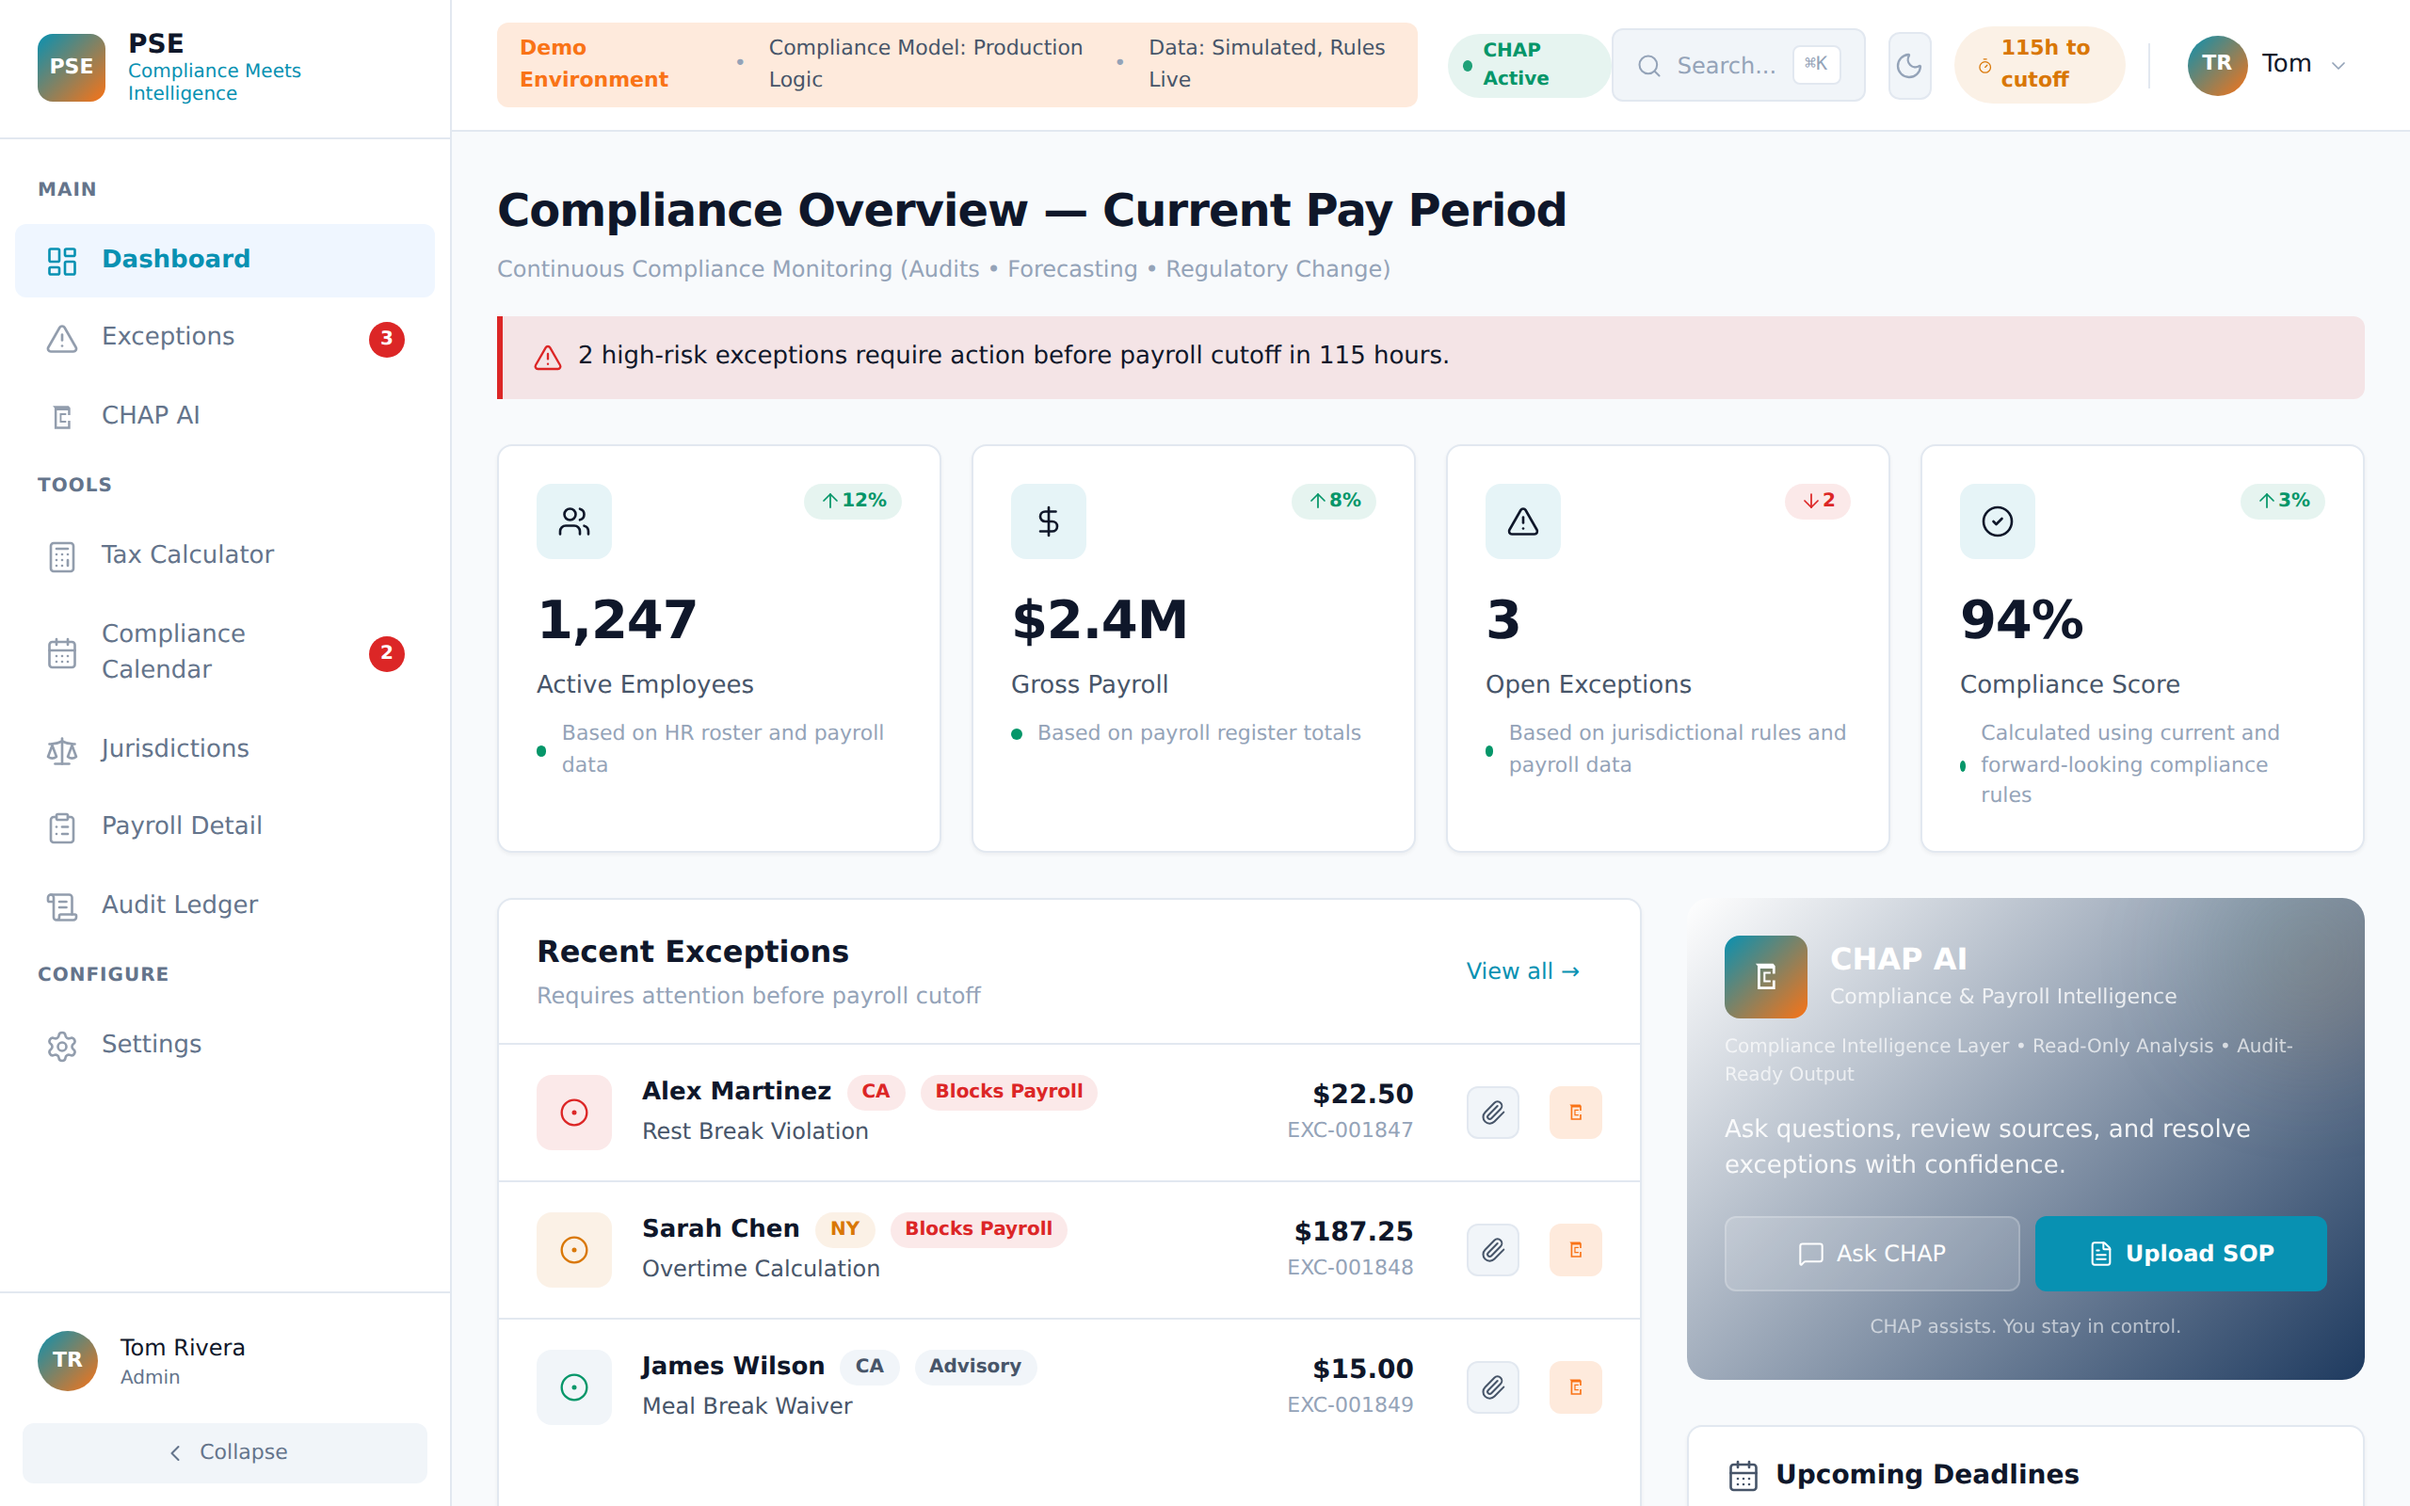
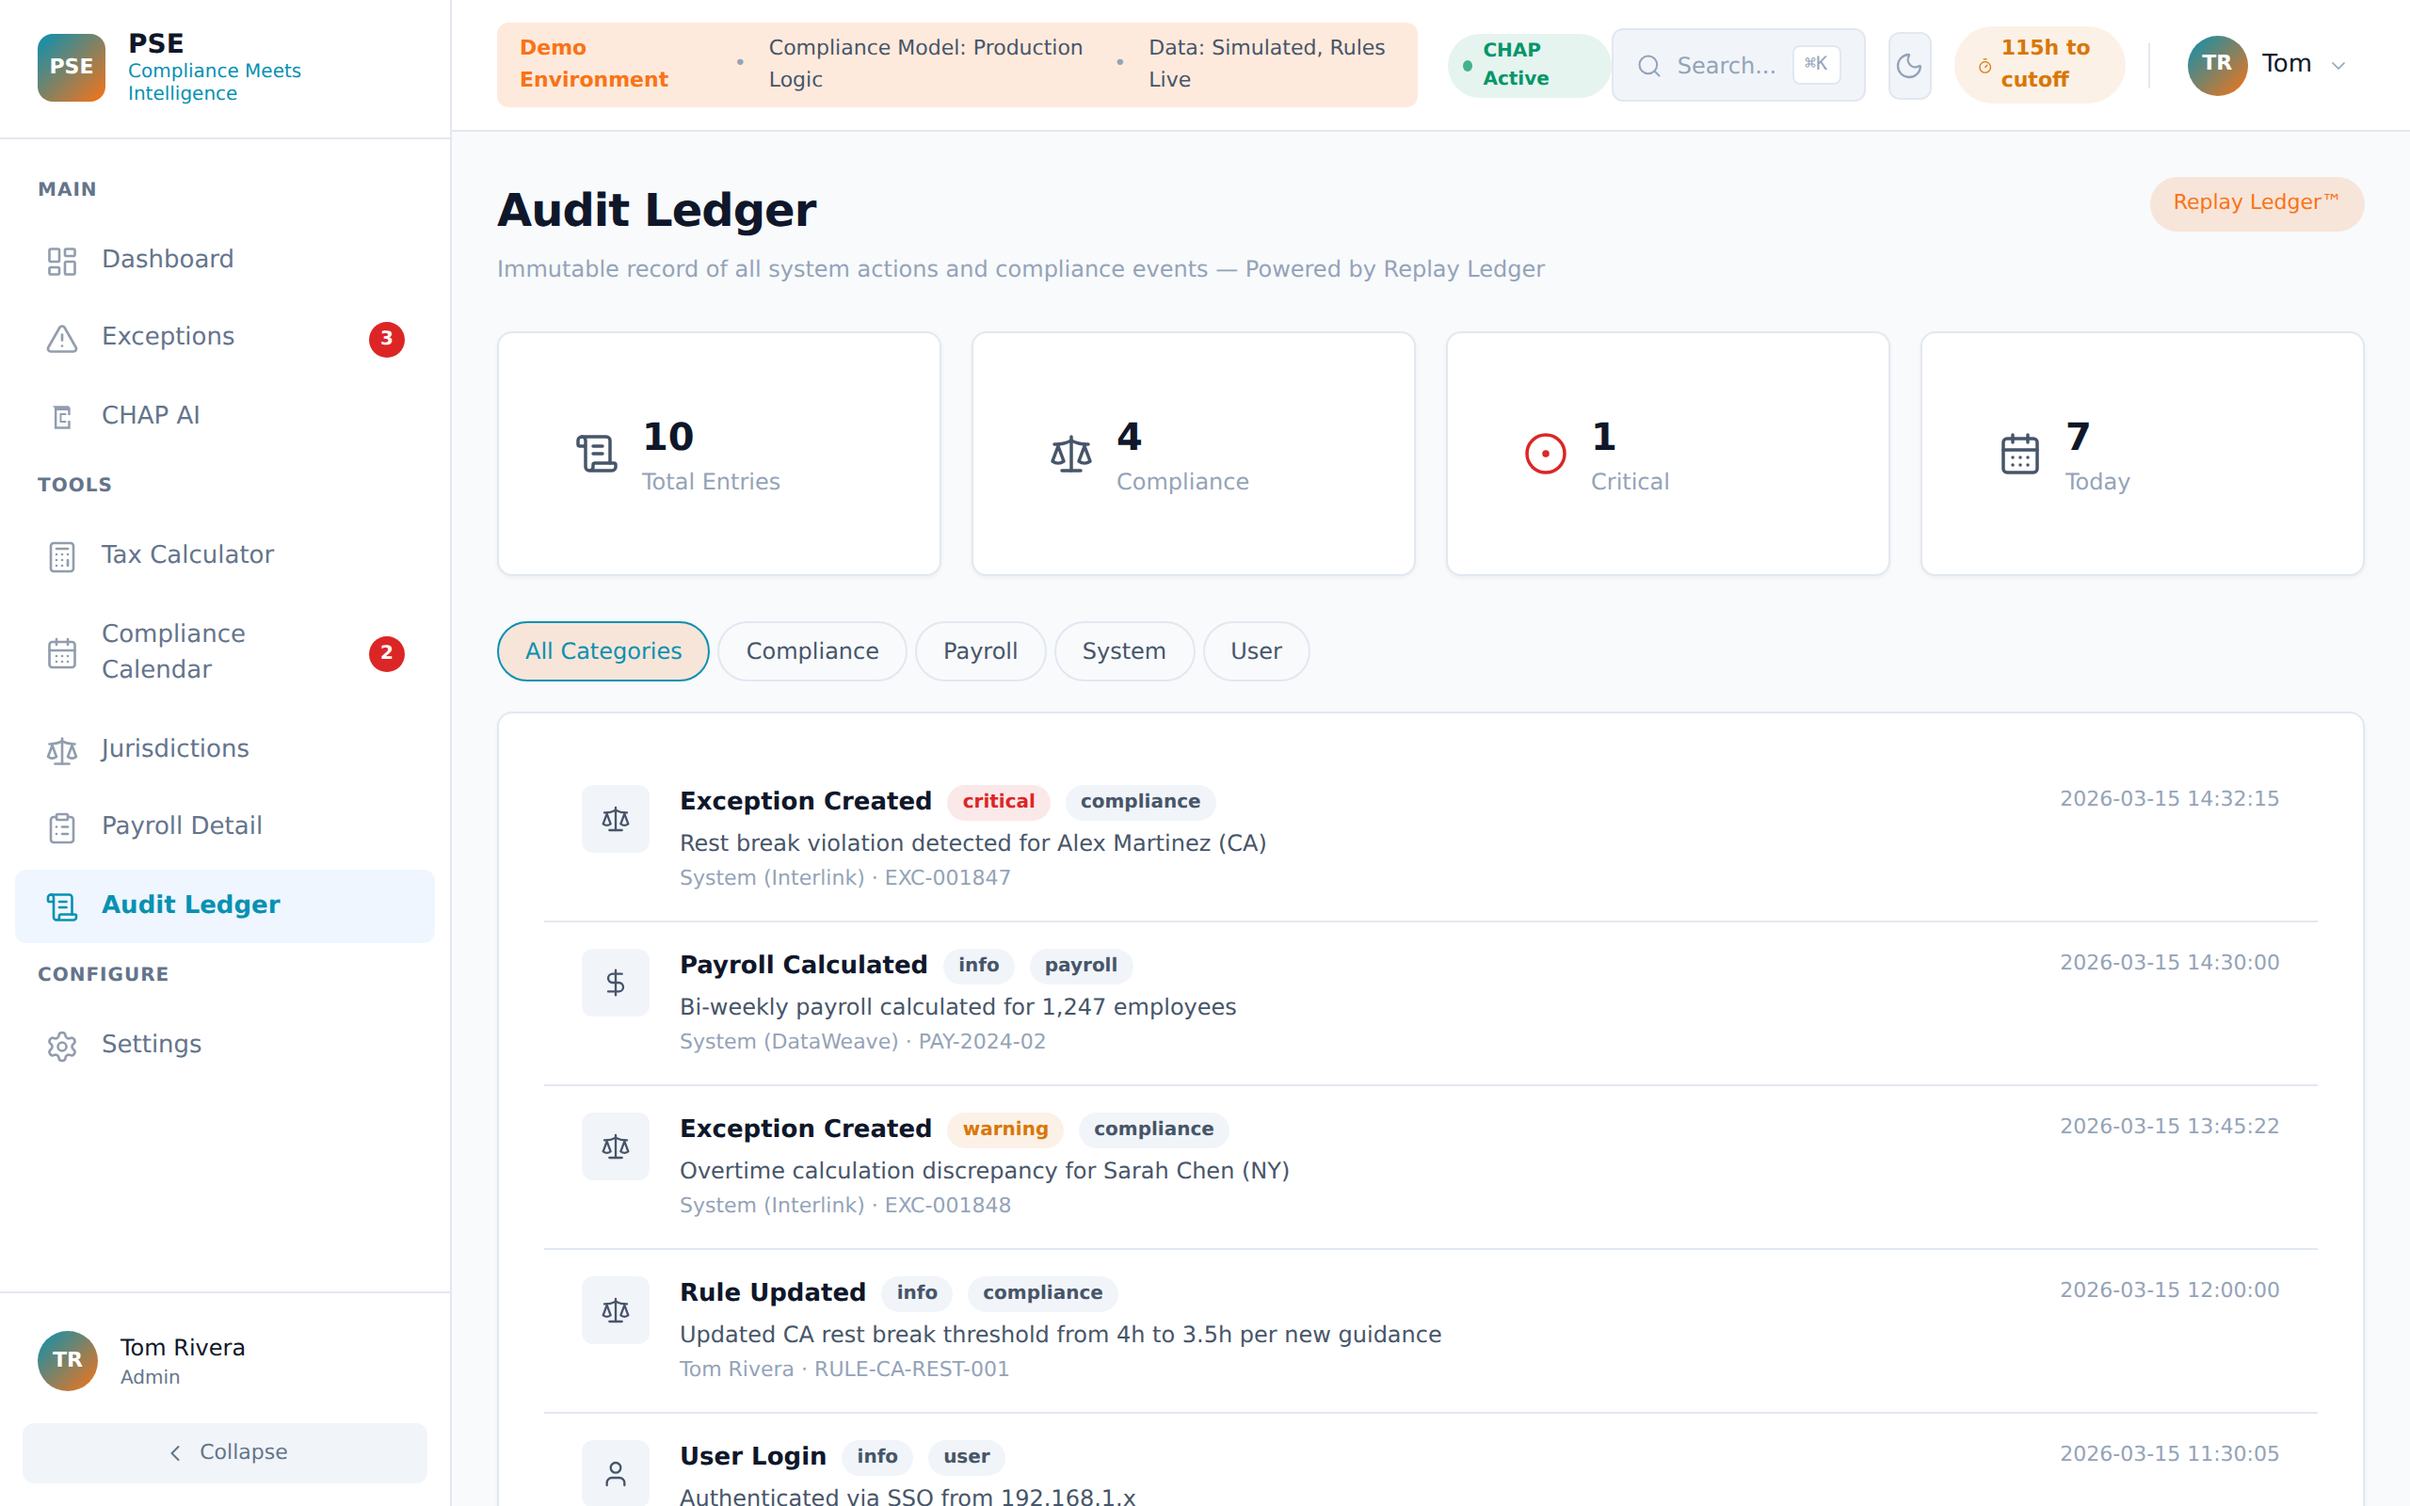
fix: capture distinct screenshots via SPA sidebar navigation
Script now clicks Dashboard, Exceptions, Payroll Detail, Audit Ledger
buttons instead of hitting separate routes (SPA serves same shell on all paths)

diff --git a/scripts/capture-demo-screenshots.js b/scripts/capture-demo-screenshots.js
@@ -5,49 +5,33 @@ const DEMO_URL = 'https://demo.payrollsynergyexperts.com';
 const OUT_DIR = path.join(__dirname, '..', 'public', 'screenshots');
 
 const screenshots = [
-  {
-    name: 'dashboard-overview',
-    path: '/',
-    waitFor: 3000,
-    viewport: { width: 1280, height: 800 },
-  },
-  {
-    name: 'compliance-scan',
-    path: '/compliance',
-    waitFor: 3000,
-    viewport: { width: 1280, height: 800 },
-  },
-  {
-    name: 'payroll-run',
-    path: '/payroll',
-    waitFor: 3000,
-    viewport: { width: 1280, height: 800 },
-  },
-  {
-    name: 'audit-trail',
-    path: '/audit',
-    waitFor: 3000,
-    viewport: { width: 1280, height: 800 },
-  },
+  { name: 'dashboard-overview', navText: 'Dashboard', wait: 2000 },
+  { name: 'compliance-scan', navText: 'Exceptions', wait: 2000 },
+  { name: 'payroll-run', navText: 'Payroll Detail', wait: 2000 },
+  { name: 'audit-trail', navText: 'Audit Ledger', wait: 2000 },
 ];
 
 (async () => {
   const browser = await chromium.launch({ headless: true });
+  const context = await browser.newContext({
+    viewport: { width: 1280, height: 800 },
+    deviceScaleFactor: 2,
+  });
+  const page = await context.newPage();
+
+  // Load the SPA once
+  console.log('Loading demo site...');
+  await page.goto(DEMO_URL, { waitUntil: 'networkidle', timeout: 20000 });
+  await page.waitForTimeout(3000);
 
   for (const shot of screenshots) {
-    console.log(`Capturing ${shot.name}...`);
-    const context = await browser.newContext({
-      viewport: shot.viewport,
-      deviceScaleFactor: 2,
-    });
-    const page = await context.newPage();
-
+    console.log(`Capturing ${shot.name} (clicking "${shot.navText}")...`);
     try {
-      await page.goto(`${DEMO_URL}${shot.path}`, {
-        waitUntil: 'networkidle',
-        timeout: 15000,
-      });
-      await page.waitForTimeout(shot.waitFor);
+      // Click the sidebar nav button by text
+      const btn = page.locator(`nav button:has-text("${shot.navText}")`).first();
+      await btn.click();
+      await page.waitForTimeout(shot.wait);
+
       await page.screenshot({
         path: path.join(OUT_DIR, `${shot.name}.png`),
         fullPage: false,
@@ -56,10 +40,9 @@ const screenshots = [
     } catch (err) {
       console.error(`  ✗ ${shot.name} failed: ${err.message}`);
     }
-
-    await context.close();
   }
 
+  await context.close();
   await browser.close();
   console.log('\nDone.');
 })();
